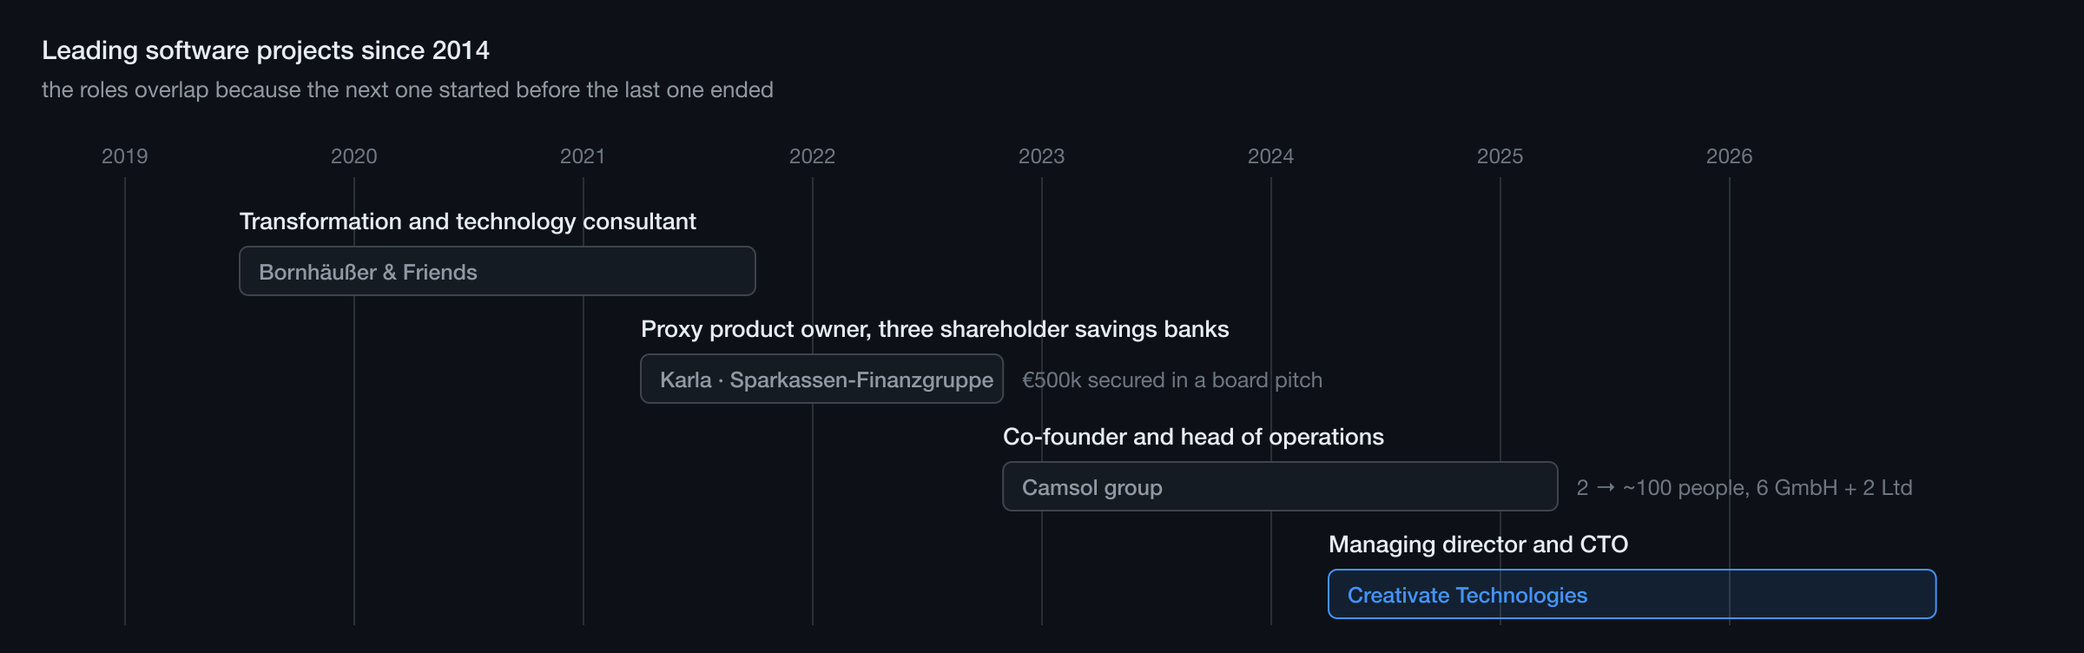
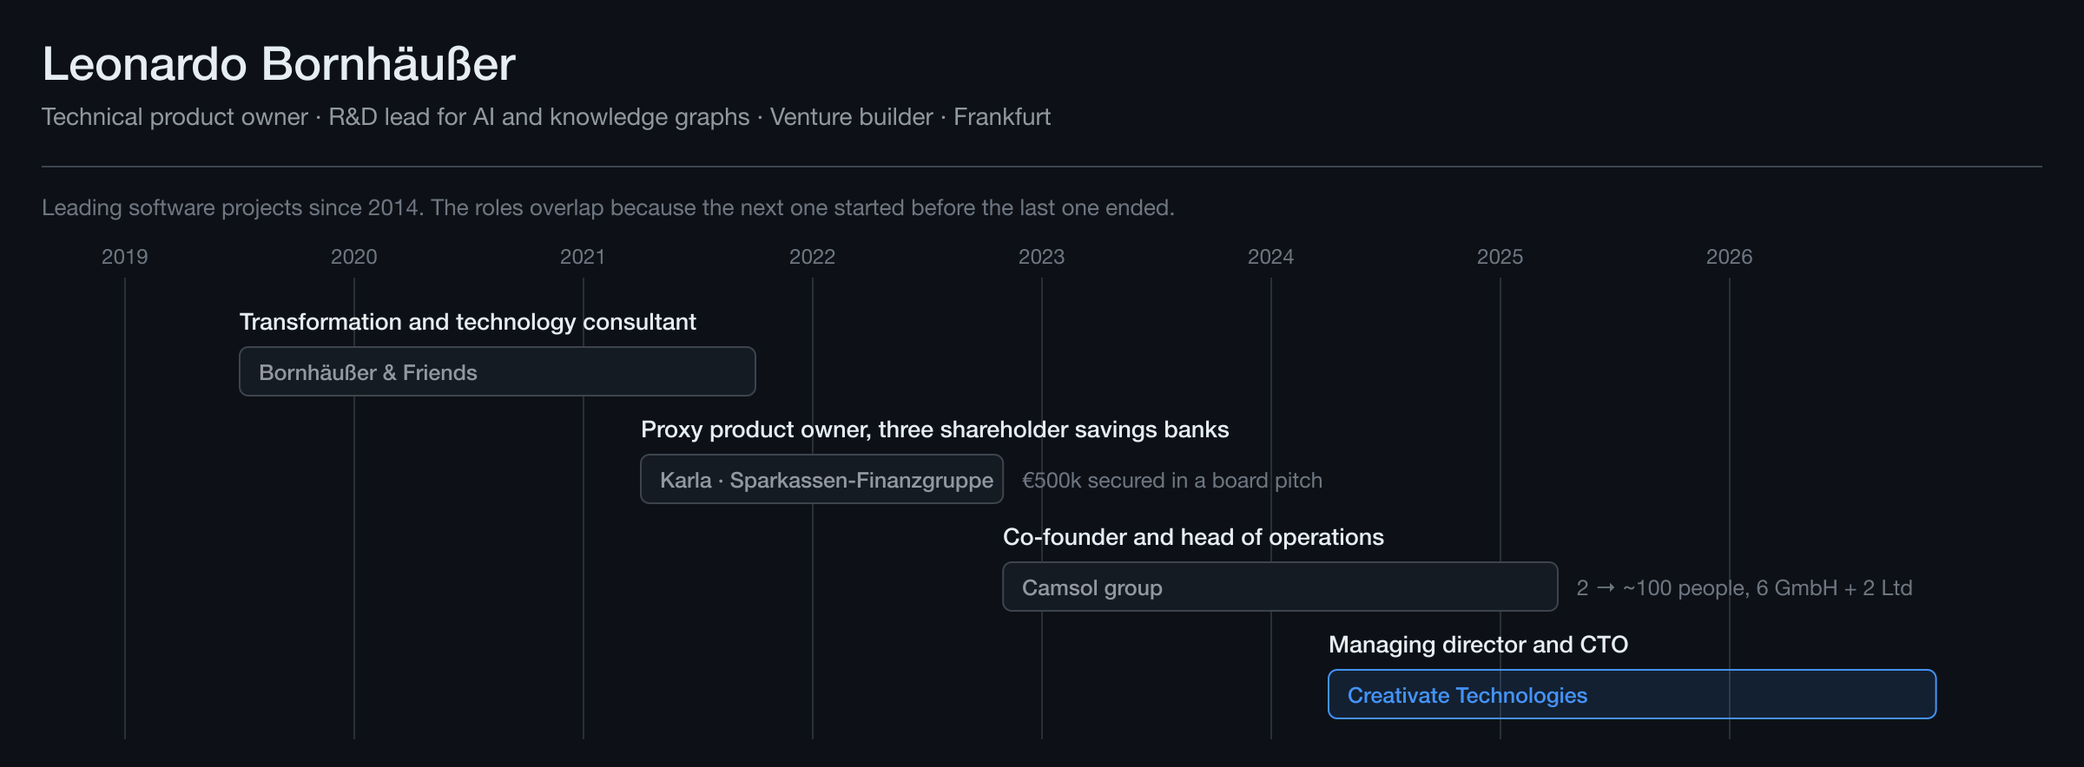
Put the name back on the page, in plain words and with the links
The hero returns, but as the top of the career strip rather than as a separate
banner: name, the three roles, the city, a rule, and then the four spans. One
graphic instead of two, in the same palette as the rest.

The prose is rewritten to be read rather than admired. Shorter sentences,
ordinary words, the same numbers. "Knowledge-graph grounding, provenance and
audit trails" becomes "every statement points back to a source, and the trail
can be checked afterwards". The product descriptions say what each thing does
before they say how it was built.

External references are now links where the destination is alive and is
actually the thing named: c-node.ai with its demo and graph, app.zulano.io,
creativate.tech, plus LinkedIn and Creativate as badges next to ORCID, the DOI
and the CV. Four were checked and deliberately left unlinked. ai-playbook.eu
and talk2claudio.ai no longer resolve. checkme.health and check-me.app are live
but belong to other people's products that happen to share the name.

diff --git a/tools/build_assets.py b/tools/build_assets.py
@@ -52,14 +52,20 @@ def svg(w, h, body, th):
 # ----------------------------------------------------------------- career ----
 def career(th):
     """Dates from the CV at adminleo.github.io/cv."""
-    W, H = 1200, 376
+    W, H = 1200, 442
     X0, X1, Y0, Y1 = 72, 1128, 2019.0, 2027.0
 
     def x(year):
         return X0 + (year - Y0) / (Y1 - Y0) * (X1 - X0)
 
-    p = [t(24, 34, "Leading software projects since 2014", 15, 600, "fg", th=th),
-         t(24, 56, "the roles overlap because the next one started before the last one ended", 13, 400, "muted", th=th)]
+    p = [t(24, 46, "Leonardo Bornhäußer", 27, 600, "fg", th=th),
+         t(24, 72, "Technical product owner · R&D lead for AI and knowledge graphs · "
+                   "Venture builder · Frankfurt", 14, 400, "muted", th=th),
+         f'<line x1="24" y1="96" x2="{W-24}" y2="96" stroke="{th["border"]}" '
+         f'stroke-width="1"/>',
+         t(24, 124, "Leading software projects since 2014. The roles overlap "
+                    "because the next one started before the last one ended.",
+           13, 400, "faint", th=th)]
 
     rows = [
         (2019.5, 2021.75, "Transformation and technology consultant",
@@ -73,12 +79,12 @@ def career(th):
     ]
 
     for year in range(2019, 2027):
-        p.append(f'<line x1="{x(year):.1f}" y1="102" x2="{x(year):.1f}" y2="{H-16}" '
+        p.append(f'<line x1="{x(year):.1f}" y1="160" x2="{x(year):.1f}" y2="{H-16}" '
                  f'stroke="{th["border"]}" stroke-width="1" opacity="0.6"/>')
-        p.append(t(x(year), 94, str(year), 12, 400, "faint",
+        p.append(t(x(year), 152, str(year), 12, 400, "faint",
                    anchor="middle", th=th))
 
-    y = 132
+    y = 190
     for j, (a, b, role, org, note) in enumerate(rows):
         current = j == len(rows) - 1
         fill = th["accent"] if current else th["subtle"]

diff --git a/README.md b/README.md
@@ -1,24 +1,27 @@
 <picture>
   <source media="(prefers-color-scheme: dark)" srcset="assets/career-dark.png">
-  <img src="assets/career-light.png" alt="Career: consultant 2019–2021, proxy product owner at Karla / Sparkassen-Finanzgruppe 2021–2022, co-founder and head of operations at Camsol 2022–2025, managing director and CTO at Creativate Technologies since 2024">
+  <img src="assets/career-light.png" alt="Leonardo Bornhäußer — technical product owner, R&D lead for AI and knowledge graphs, venture builder. Consultant 2019–2021, proxy product owner at Karla / Sparkassen-Finanzgruppe 2021–2022, co-founder and head of operations at Camsol 2022–2025, managing director and CTO at Creativate Technologies since 2024.">
 </picture>
 
 [![ORCID](https://img.shields.io/badge/ORCID-0009--0005--6464--5179-A6CE39?style=flat-square&logo=orcid&logoColor=white)](https://orcid.org/0009-0005-6464-5179)
 [![DOI](https://img.shields.io/badge/DOI-10.5281%2Fzenodo.24100702-1682D4?style=flat-square)](https://doi.org/10.5281/zenodo.24100702)
 [![CV](https://img.shields.io/badge/CV-adminleo.github.io%2Fcv-24292F?style=flat-square&logo=github&logoColor=white)](https://adminleo.github.io/cv/)
+[![LinkedIn](https://img.shields.io/badge/LinkedIn-leonardo--bornhaeusser-0A66C2?style=flat-square&logo=linkedin&logoColor=white)](https://www.linkedin.com/in/leonardo-bornhaeusser)
+[![Creativate](https://img.shields.io/badge/creativate.tech-1f2328?style=flat-square&logo=googlechrome&logoColor=white)](https://creativate.tech)
 
-I consult on AI projects, build the systems, and ship my own products where the
-case holds up. Managing director and CTO at
-[Creativate Technologies](https://creativate.tech) in Frankfurt, where the work
-is knowledge-graph grounding, provenance and audit trails — mostly for finance,
-legal and public-sector users who cannot accept "the model said so".
+I consult on AI projects, build the systems, and ship my own products when the
+case holds up.
 
-Technical product owner by trade: requirements, prioritisation, architecture
-decisions, the release gate, and the conversation with the people who have to
-sign off. Most of that work is under NDA or not released yet. What is here is
-the part that can be shown, and a theme runs through it: the headline number is
-usually the one to distrust, and most of the effort goes into finding out
-whether it means anything.
+I am managing director and CTO at
+[Creativate Technologies](https://creativate.tech) in Frankfurt. We build AI
+that has to prove its answers: every statement points back to a source, and the
+trail can be checked afterwards. Our users work in finance, law and the public
+sector, where "the model said so" is not an acceptable answer.
+
+Most of that work is under an NDA or not released yet. This page shows the part
+that can be shown. One idea runs through all of it: the headline number is
+usually the one to distrust, and most of the work goes into finding out whether
+it means anything.
 
 ---
 
@@ -26,36 +29,36 @@ whether it means anything.
 
 | | |
 |---|---|
-| **c:node** · 2024 – now<br>founder, architect, lead | Knowledge-graph decision intelligence: bind a language model to a store that can be checked, so answers are auditable rather than fluent. In 2026 the monolith (~258,000 lines) was replaced by a service platform with its own identity and billing services. Runs in the cloud or fully on-premise with local GPU inference. |
-| **Zulano** · 2026 – now<br>architecture and ontology | Application and funding assistant for the public sector. A data mesh of more than 34 million structured records as the grounding layer, and a rule-based Java/Spring Boot service that routes a request to the responsible authority deterministically — a decision that may not depend on a model's guess. |
-| **LeadScout · Claudio · AI&nbsp;Playbook** · 2025 – 2026<br>founder, lead | Three product bets taken to paying customers: a multi-tenant B2B lead engine with ICP scoring and CRM integrations, a voice-note-to-task assistant shipped as SaaS and as a signed desktop app, and a trilingual AI-readiness check that generates its report as a PDF and sells in two tiers. Positioning, pricing and service boundaries owned end to end; folded into c:node in 2026 once the market had answered. |
-| **Gasvisor** · 2022 – 2024<br>venture lead | IoT CO₂ monitoring for industry: battery-powered LTE-M sensors for fill level, temperature and humidity, cloud analytics, and a dashboard with consumption forecast and automatic re-ordering — built for TRGS-510 compliance and ESG reporting, taken from incubator MVP to enterprise customers. |
-| **CheckMe** · 2023 – 2025<br>venture lead | Breast-cancer early detection for underserved regions: native apps plus web, an AI companion, and ultrasound analysis producing a radiologist-reviewed BI-RADS report. Clinical and regulatory stakeholders, privacy by design for health data. |
-| **Karla** · 2021 – 2022<br>proxy product owner | Beyond-banking platform of the German savings banks group, mandated by the DSGV. Headless CMS and a multi-vendor commerce layer, integrated with the Java systems of the group's IT provider. Requirements from three shareholder savings banks consolidated against one backlog and prepared for committee decision; a joint board pitch secured €500,000. |
+| **[c:node](https://c-node.ai)** · 2024 – now<br>founder, architect, lead | Software that answers questions from a company's own knowledge and shows where each answer comes from. Built from scratch. In 2026 I replaced the original single program (~258,000 lines) with separate services, each with one job, plus its own login and billing. Runs in the cloud or entirely on a customer's own servers. Live: [c-node.ai](https://c-node.ai) · [try.c-node.ai](https://try.c-node.ai) · [graph.c-node.ai](https://graph.c-node.ai) |
+| **[Zulano](https://app.zulano.io)** · 2026 – now<br>architecture and ontology | An assistant for public-sector applications and funding research. Behind it sit 34 million structured records as source material, and a Java service that decides which authority is responsible using fixed rules. That decision must not depend on a model's guess, so it does not. |
+| **LeadScout · Claudio · AI&nbsp;Playbook** · 2025 – 2026<br>founder, lead | Three products taken to paying customers: a lead engine for B2B sales with scoring and CRM connections, an assistant that turns a voice note into a task (web app and signed desktop app), and an AI readiness check in three languages that writes its own PDF report and sells in two tiers. I owned positioning, pricing, and what the service does and does not promise. In 2026 I folded all three into c:node. |
+| **Gasvisor** · 2022 – 2024<br>venture lead | CO₂ monitoring for industrial sites. Battery sensors measure fill level, temperature and humidity and send it over the mobile network. A dashboard predicts consumption and reorders automatically. Built around German safety rules (TRGS 510) and ESG reporting, and taken from a first version to enterprise customers. |
+| **CheckMe** · 2023 – 2025<br>venture lead | Breast cancer early detection for regions with few specialists. Mobile apps and web, an AI companion, and ultrasound analysis that produces a BI-RADS report for a radiologist to review. Clinical and regulatory stakeholders, privacy built in from the start. |
+| **Karla** · 2021 – 2022<br>proxy product owner | A platform of the German savings banks group for services beyond banking. I ran a headless CMS and a multi-vendor shop, connected to the group's Java systems. Three savings banks held shares and each had its own requirements; I turned them into one backlog and prepared the committee decisions. A joint pitch to the board secured €500,000. |
 
-Before all of that: first technical lead in 2014, and a decade of software
-projects since. The full account is in the [CV](https://adminleo.github.io/cv/).
+Before that: first technical lead in 2014, and a decade of software projects
+since. The full account is in the [CV](https://adminleo.github.io/cv/).
 
 ---
 
 ## Where it actually runs
 
-I deploy and then operate — the thing that breaks on a Sunday is mine.
+I deploy and then operate. The thing that breaks on a Sunday is mine.
 
 - **AWS** — EC2 with Docker behind Caddy and automatic TLS, S3 and CloudFront,
-  Lambda, ECR with lifecycle policies, Route 53, security groups opened and
-  closed per session. Day-to-day over the CLI, not the console.
-- **Google Cloud** — Cloud Functions on a schedule, behind Cloud SQL over a
+  Lambda, ECR with lifecycle rules, Route 53, security groups opened and closed
+  per session. Day to day over the CLI, not the console.
+- **Google Cloud** — Cloud Functions on a schedule, talking to Cloud SQL over a
   unix socket, secrets in Secret Manager, Cloud Scheduler authenticating with
-  OIDC. The public receipt for this one is
-  [gans-data-pipeline](https://github.com/adminleo/gans-data-pipeline), including
-  the deploy and teardown scripts and the four permission mistakes they now
-  avoid.
-- **Hetzner** — smaller services and staging where the cost per gigabyte of RAM
+  OIDC. The public receipt is
+  [gans-data-pipeline](https://github.com/adminleo/gans-data-pipeline), deploy
+  and teardown scripts included.
+- **Hetzner** — smaller services and staging, where the cost per gigabyte of RAM
   decides it.
-- **On-premise and air-gapped** — single-command deployment on a customer's own
-  hardware with local GPU inference, for buyers whose data cannot leave the
-  building. One pilot ran on a German city's live data.
+- **On-premise and air-gapped** — one command installs the whole stack on a
+  customer's own hardware, with the model running locally on their GPU. For
+  buyers whose data cannot leave the building. One pilot ran on a German city's
+  live data.
 
 What I have not done, in case it saves someone a call: no managed Kubernetes in
 production, and no Bedrock.
@@ -68,28 +71,28 @@ production, and no Bedrock.
 &nbsp;[![tests](https://img.shields.io/github/actions/workflow/status/adminleo/grounded-ai-evals/tests.yml?style=flat-square&label=tests)](https://github.com/adminleo/grounded-ai-evals/actions)
 [![DOI](https://img.shields.io/badge/DOI-10.5281%2Fzenodo.24100702-1682D4?style=flat-square)](https://doi.org/10.5281/zenodo.24100702)
 
-How do you test a system whose job is to answer *with evidence*? Four layers,
-ordered so that each one is only meaningful once the one above it holds. The
-library computes the metrics and renders a release gate that blocks on named
-checks rather than on a weighted mean.
+How do you test a system whose job is to answer *with evidence*? In four layers,
+in a fixed order, because each layer only tells you something once the one above
+it holds. The library measures all of it and produces a release gate: instead of
+averaging everything into one score, it names the checks that failed.
 
 <picture>
   <source media="(prefers-color-scheme: dark)" srcset="assets/eval-gate-dark.png">
   <img src="assets/eval-gate-light.png" alt="The four layers, and a release gate that blocks on three named checks while the system passes both baselines">
 </picture>
 
-The example run is the argument for the design: a system that beats a plain
-model and ordinary RAG, and is still blocked, by name, on provenance coverage,
-citation precision and unsupported-claim rate. An average would have let it
-through. Standard library, tested, with the method mapped to public standards
-and to the EU AI Act articles the evidence serves.
+The example shows why that matters. The system beats a plain model and ordinary
+RAG, and it is still blocked — by name, on three checks. An average would have
+waved it through. Standard library, tested, and the method is mapped to public
+standards and to the EU AI Act articles the evidence serves.
 
 Also public:
 **[governed-graph-growth](https://github.com/CreativateLabs/governed-graph-growth)**
 &nbsp;[![DOI](https://img.shields.io/badge/DOI-10.5281%2Fzenodo.24099664-1682D4?style=flat-square)](https://doi.org/10.5281/zenodo.24099664)
-— a technical note on letting a knowledge graph grow without letting it rot.
-Next: evaluation methods for AI that answers with evidence, and point-in-time
-legal grounding. Papers in preparation; artefacts land here first.
+— a short note on how to let a knowledge graph grow without letting it rot.
+Next up: how to evaluate AI that answers with evidence, and how to ground an
+answer in the law as it stood on a given day. Papers in preparation; the
+artefacts land here first.
 
 ---
 
@@ -102,13 +105,15 @@ legal grounding. Papers in preparation; artefacts land here first.
 ![MySQL](https://img.shields.io/badge/-MySQL-4479A1?style=flat-square&logo=mysql&logoColor=white)
 ![GCP](https://img.shields.io/badge/-Google_Cloud-4285F4?style=flat-square&logo=googlecloud&logoColor=white)
 
-Scrapes city facts, weather and arriving flights into SQL on a daily schedule —
-local first, then the same function on Cloud Functions behind Cloud SQL, with a
-[live page](https://adminleo.github.io/gans-data-pipeline/) that reads a
-published snapshot so the database keeps no public route. The population column
-turned out to be the interesting part: Wikipedia uses six different labels for
-it across seven cities and dates them from a 2006 census to 2026, so a hardcoded
-label returns nothing for four of them — silently, as a missing value.
+Collects city facts, weather and arriving flights into a SQL database once a
+day. First on a laptop, then the same code on Google Cloud. A
+[live page](https://adminleo.github.io/gans-data-pipeline/) reads a published
+snapshot, so the database itself needs no public route.
+
+The interesting part was the population figure. Wikipedia labels it in six
+different ways across seven cities, and dates it anywhere from a 2006 census to
+2026. Look for one fixed label and four of the seven return nothing — quietly,
+as a missing value.
 
 ### Models, and the metrics that mislead
 
@@ -116,30 +121,32 @@ label returns nothing for four of them — silently, as a missing value.
 &nbsp;![Python](https://img.shields.io/badge/-Python-3776AB?style=flat-square&logo=python&logoColor=white)
 ![scikit-learn](https://img.shields.io/badge/-scikit--learn-F7931E?style=flat-square&logo=scikitlearn&logoColor=white)
 
-Is this house expensive, and what is it worth? Answering "no" to every house is
-right 85.1 % of the time and finds none of them, so the work is in the metrics
-that survive a 14.9 % positive rate.
+Is this house expensive, and what is it worth? Saying "no" to every house is
+right 85.1 % of the time and finds none of them, so the work is in choosing
+metrics that survive that.
 
 <picture>
   <source media="(prefers-color-scheme: dark)" srcset="assets/ames-errors-dark.png">
   <img src="assets/ames-errors-light.png" alt="Both error groups sit within $17,420 of the price cutoff that defines the label">
 </picture>
 
-Every mistake sits next to the cutoff that *defined* the label — so predicting
-the price and applying the rule afterwards beats classifying directly, F1 0.843
-against 0.813 over the same 20 folds (p = 0.0098). Also: grid search scored on
-its own folds inflates F1 by 0.027 for a tree and 0.000 for a linear model.
+Every mistake sits right next to the price line that defines the label. So it
+works better to predict the price first and apply the rule afterwards than to
+classify directly: F1 0.843 against 0.813 over the same 20 folds, p = 0.0098.
+One more: tuning a model and scoring it on the same folds makes a decision tree
+look 0.027 better than it is, and a linear model not at all.
 
 **[moosic-playlists](https://github.com/adminleo/moosic-playlists)**
 &nbsp;![Python](https://img.shields.io/badge/-Python-3776AB?style=flat-square&logo=python&logoColor=white)
 ![scikit-learn](https://img.shields.io/badge/-scikit--learn-F7931E?style=flat-square&logo=scikitlearn&logoColor=white)
 
-Can K-Means turn Spotify audio features into playlists? The features carry real
-similarity — a song's nearest neighbours share its artist 19.5× more often than
-chance — but the clusters describe how a track was *recorded*, not how it feels:
-of 92 titles recorded by two different artists, only 23.9 % land together.
-Forget to scale and the eight clusters come out as a ladder of track length,
-2.6 to 61.7 minutes, with no error raised.
+Can K-Means turn Spotify audio features into playlists? The features do carry
+real similarity: a song's nearest neighbours share its artist 19.5 times more
+often than chance. But the clusters describe how a track was recorded, not how
+it sounds to a listener — of 92 titles recorded by two different artists, only
+23.9 % end up in the same cluster. Forget to scale the data and the eight
+clusters simply sort songs by length, 2.6 to 61.7 minutes, without raising an
+error.
 
 ### Analysis that ends in a decision
 
@@ -148,51 +155,51 @@ Forget to scale and the eight clusters come out as a ladder of track length,
 ![Tableau](https://img.shields.io/badge/-Tableau-E97627?style=flat-square&logo=tableau&logoColor=white)
 
 Should a European retailer enter Brazil through a logistics partner? 99,441
-marketplace orders, ending in a recommendation that contradicts the deal on the
-table. Every figure traces to the query that produced it, and the repository is
-explicit about the one question the data cannot answer.
+orders, and an answer that contradicts the deal on the table. Every number links
+back to the query that produced it, and the repository says plainly which
+question the data cannot answer.
 
 **[eniac-discount-strategy](https://github.com/adminleo/eniac-discount-strategy)**
 &nbsp;![pandas](https://img.shields.io/badge/-pandas-150458?style=flat-square&logo=pandas&logoColor=white)
 
-Cleaning a corrupted retail dataset, where the interesting question is which
-corruptions can be repaired and which cannot. Three columns look repairable and
-are not — and proving it moves a headline number by a factor of ten. A blanket
-divisor reproduced the undamaged rows' ratio to the price paid almost exactly
-while listing a MacBook Pro at €35,255.
+Cleaning a broken retail dataset. The real question is which damage can be
+repaired and which cannot. Three columns look repairable and are not, and
+proving that moves a headline number by a factor of ten. Dividing every price by
+ten matched the undamaged rows almost perfectly — and priced a MacBook Pro at
+€35,255.
 
 ### Foundations
 
 **[sql-foundations](https://github.com/adminleo/sql-foundations)** — eighty-nine
-queries from `SELECT` to chained joins, each executed against the database by a
-verifier rather than only written. ·
+queries from `SELECT` to chained joins, each one actually run against the
+database by a verifier rather than only written down. ·
 **[ab-testing](https://github.com/adminleo/ab-testing)** — a sample-size
-calculator and a design checklist, existing mostly to make one relationship
-obvious: halving the effect you want to detect quadruples the traffic you need.
+calculator and a design checklist, mostly to make one thing obvious: halve the
+effect you want to detect and you need four times the traffic.
 
 ---
 
 ## How I work
 
-**Set the threshold before the run.** A bar agreed afterwards is a description,
-not a test. `Check` takes the measured value and the bar in the same call so a
-scorecard cannot be assembled to flatter the result, and an unmeasured check
-fails closed. — [grounded-ai-evals](https://github.com/adminleo/grounded-ai-evals)
+**Agree the bar before the run.** A threshold set afterwards describes a result,
+it does not test it. In grounded-ai-evals the measured value and the bar go into
+the same call, so no scorecard can be assembled later to flatter the outcome. A
+check that was never measured counts as failed. —
+[grounded-ai-evals](https://github.com/adminleo/grounded-ai-evals)
 
-**Ask what the metric is actually measuring.** Clusters that look like genres
-and turn out to be recording conditions; an F1 that moves because the label was
-drawn with a ruler. Both only showed up once the evaluation was aimed at the
-claim instead of the model. —
-[moosic-playlists](https://github.com/adminleo/moosic-playlists),
+**Ask what a metric is really measuring.** Clusters that looked like genres
+turned out to be recording conditions. An F1 score moved because the label had
+been drawn with a ruler. Both only showed up once I tested the claim instead of
+the model. — [moosic-playlists](https://github.com/adminleo/moosic-playlists),
 [ames-house-prices](https://github.com/adminleo/ames-house-prices)
 
-**Say which question the data cannot answer.** Writing that line down is
-usually the most useful paragraph in a report, and the one most often left out.
-— [eniac-magist-analysis](https://github.com/adminleo/eniac-magist-analysis)
+**Write down the question the data cannot answer.** It is usually the most
+useful sentence in a report, and the one most often missing. —
+[eniac-magist-analysis](https://github.com/adminleo/eniac-magist-analysis)
 
-**Prefer a loud failure to a quiet one.** A hardcoded label that returns nothing
-costs more than a crash, because nobody goes looking. Every fallback in these
-repositories reports what it did not recognise. —
+**A loud failure beats a quiet one.** A fixed label that silently returns
+nothing costs more than a crash, because nobody goes looking. Every fallback in
+these repositories reports what it did not recognise. —
 [gans-data-pipeline](https://github.com/adminleo/gans-data-pipeline)
 
 ---
@@ -225,5 +232,6 @@ preference for systems that can show their work.
 
 [CV](https://adminleo.github.io/cv/) ·
 [creativate.tech](https://creativate.tech) ·
+[c-node.ai](https://c-node.ai) ·
 [LinkedIn](https://www.linkedin.com/in/leonardo-bornhaeusser) ·
 [ORCID](https://orcid.org/0009-0005-6464-5179)
